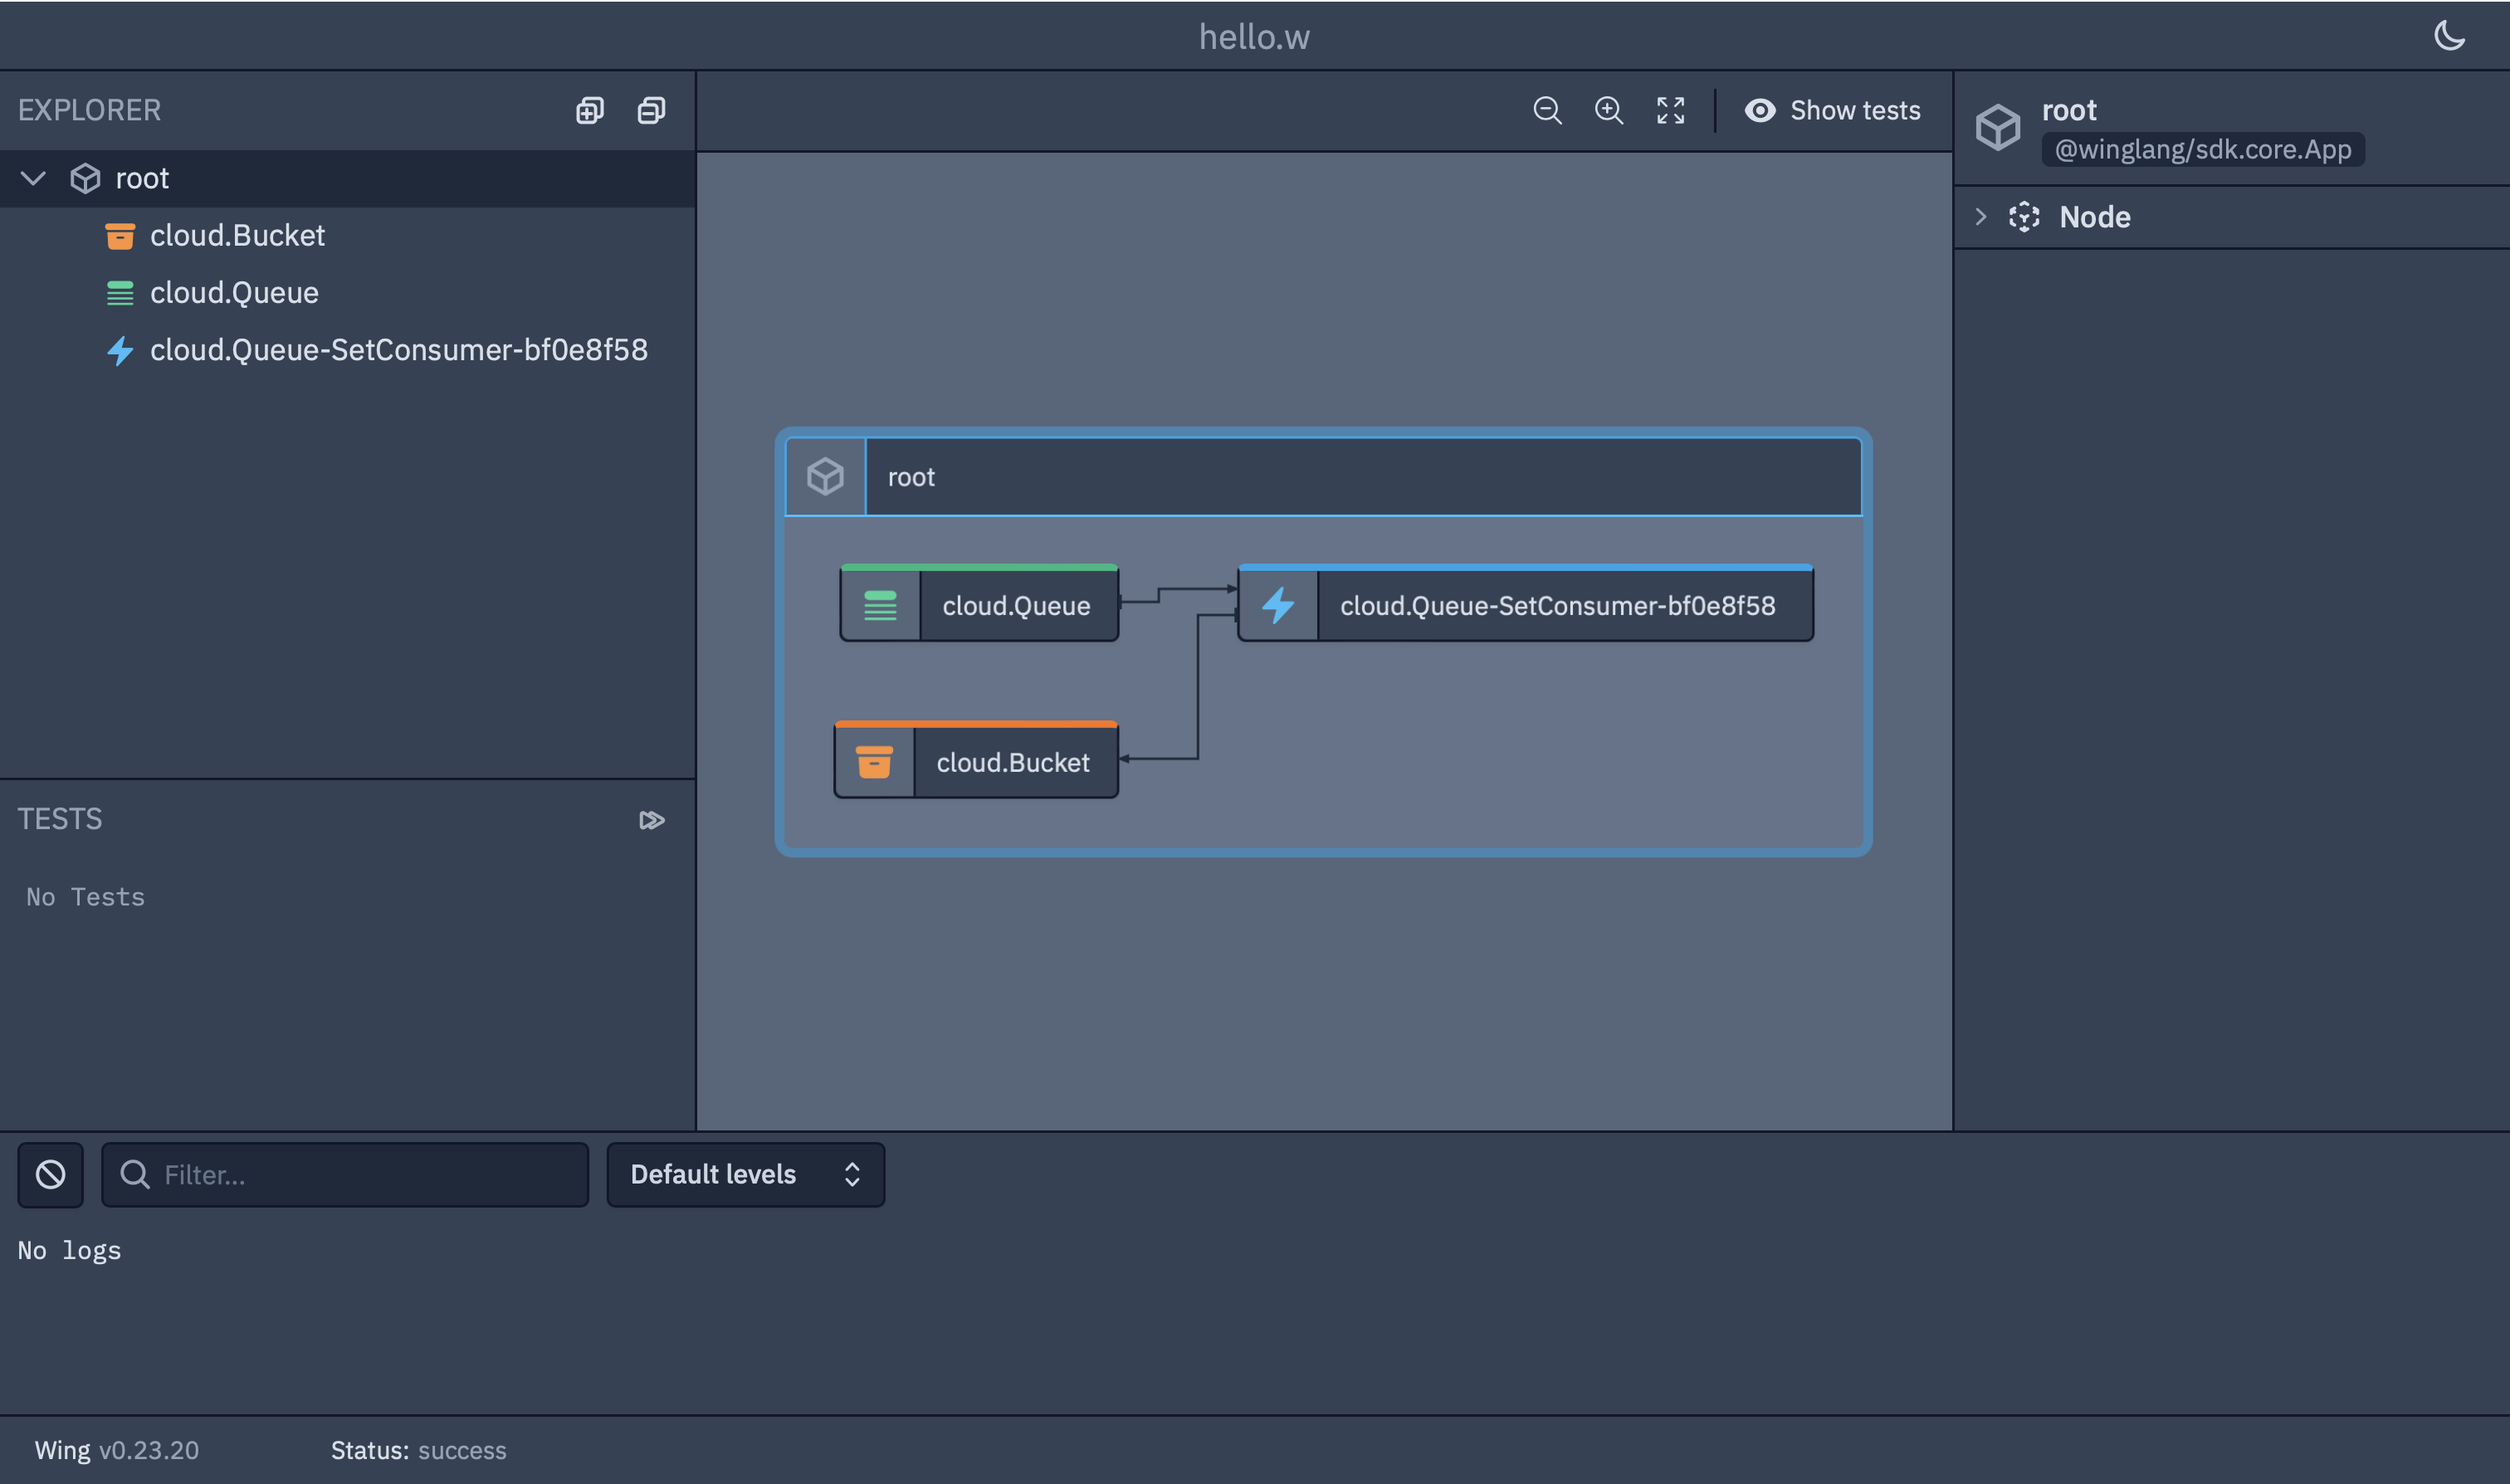
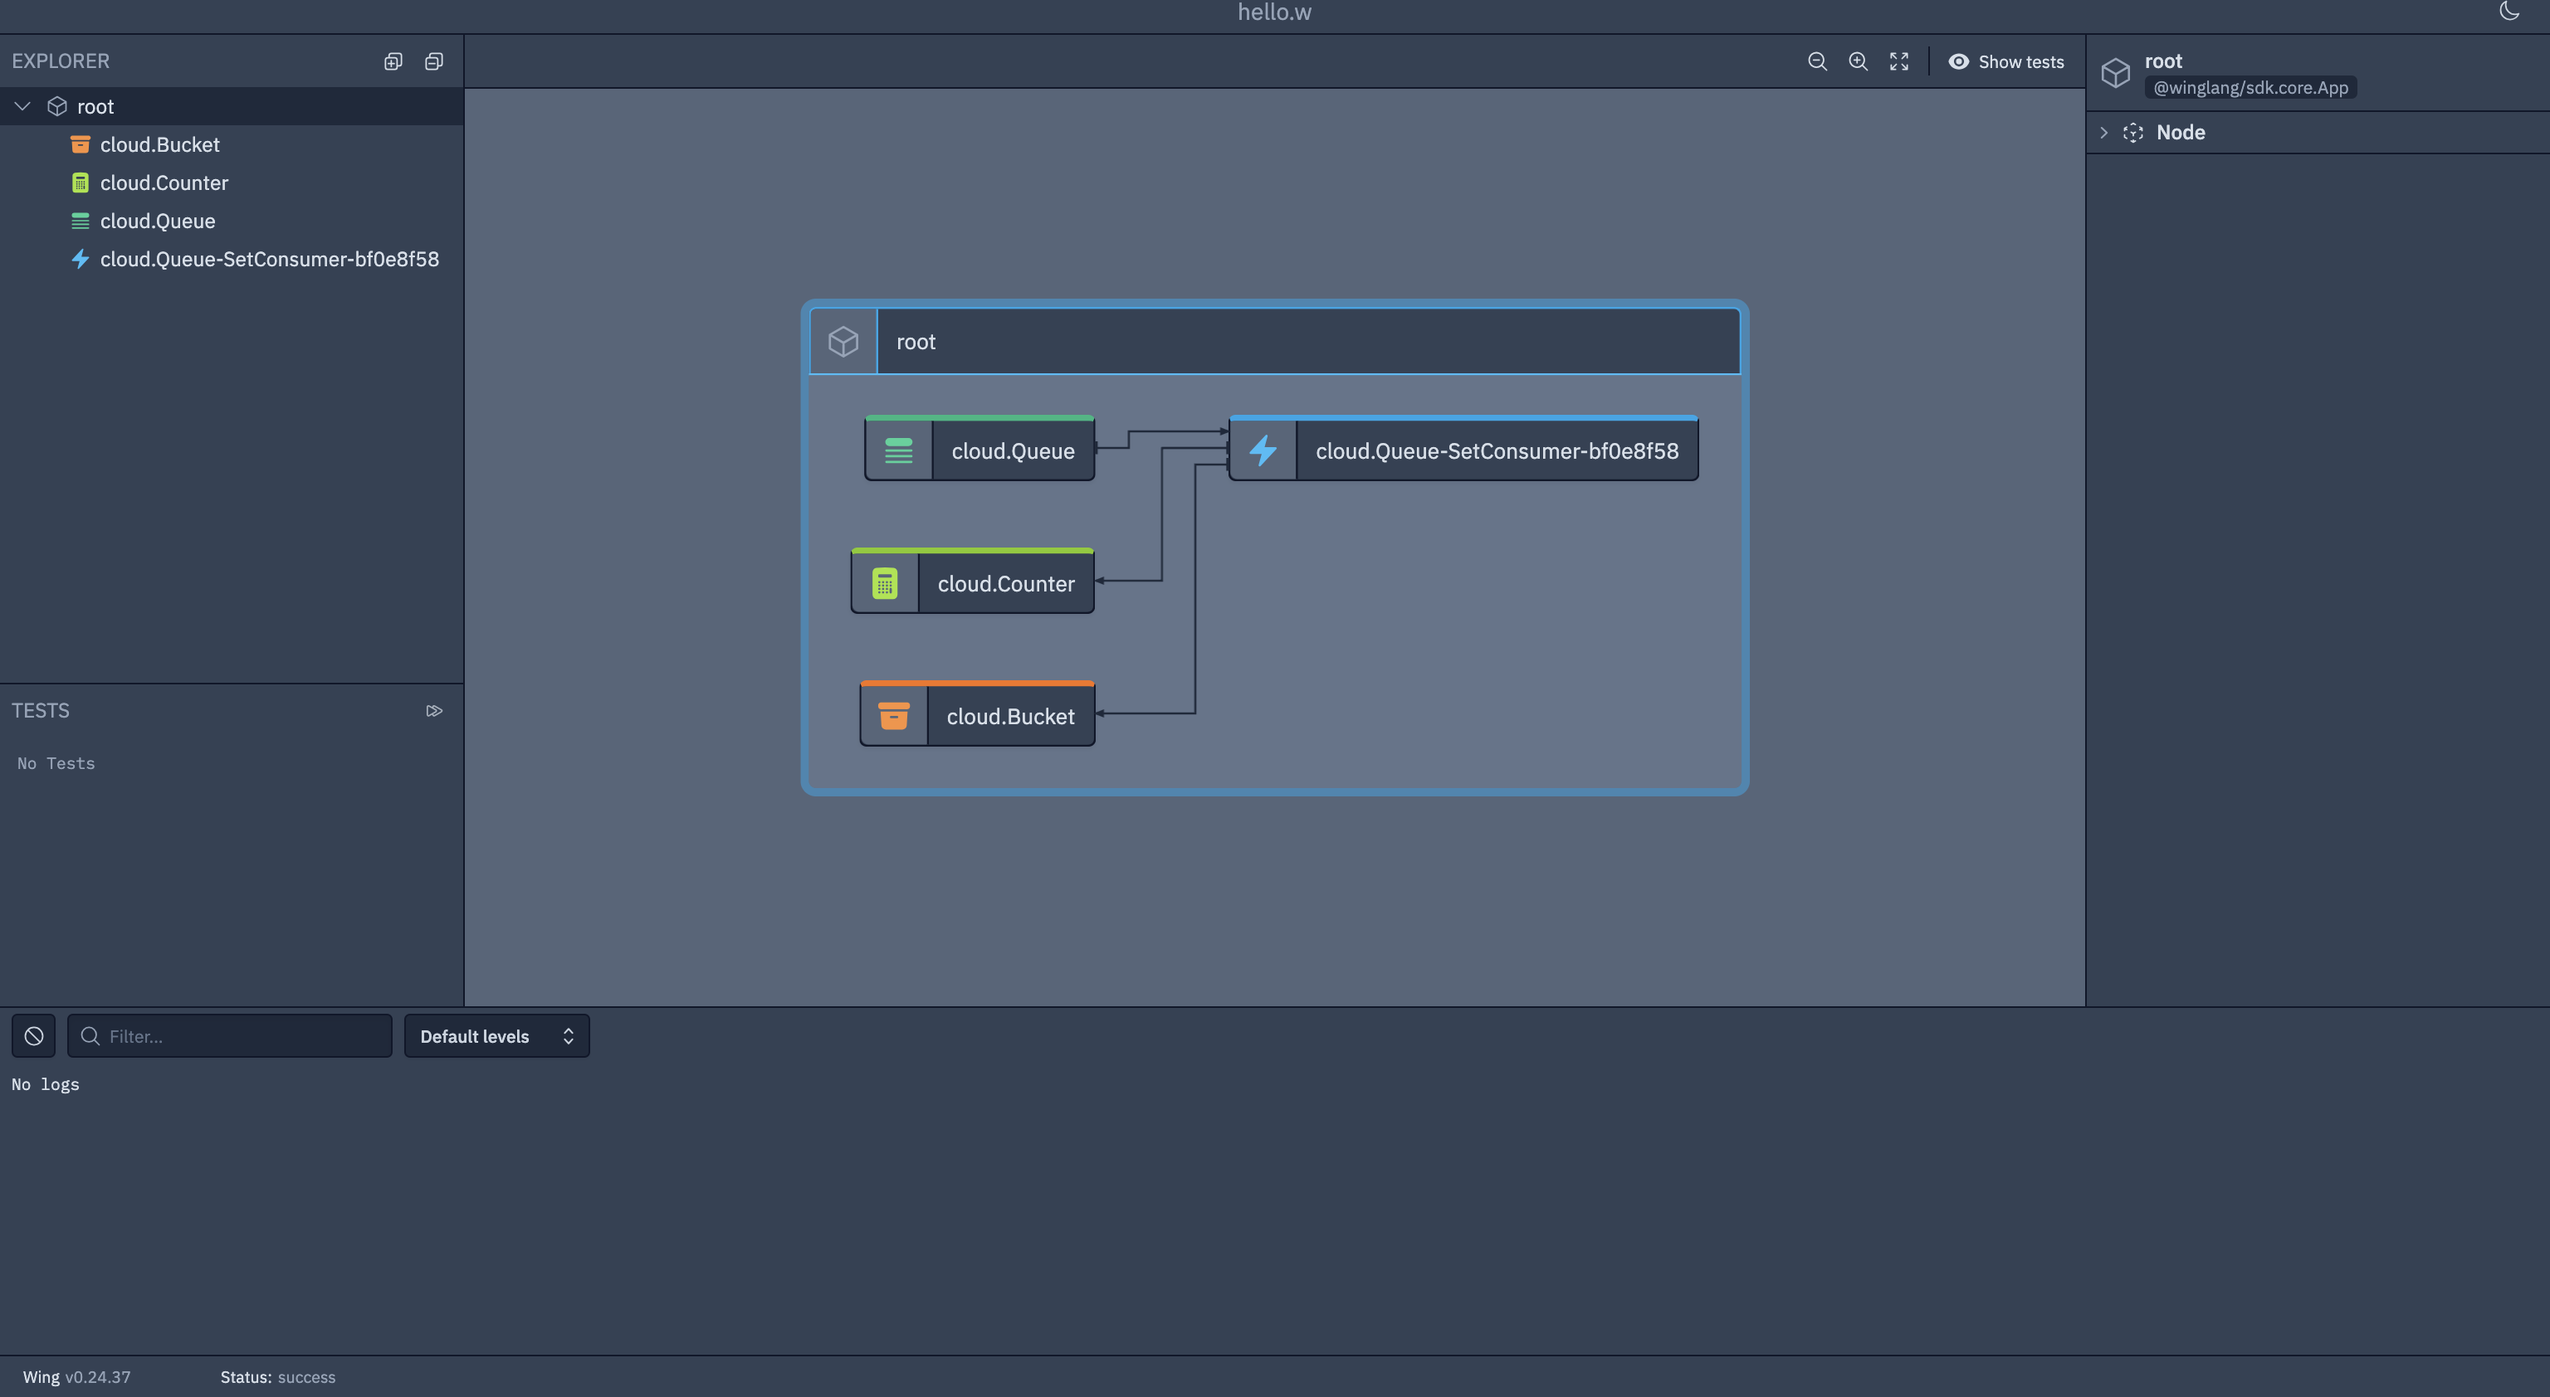
fix(docs): enhancing the getting-started app on the docs (backport #3551) (#3553)

diff --git a/docs/docs/01-start-here/05-aws.md b/docs/docs/01-start-here/05-aws.md
@@ -90,6 +90,9 @@ plan. Resource actions are indicated with the following symbols:
 
 Terraform will perform the following actions:
 
+  # aws_dynamodb_table.cloudCounter will be created
+  + resource "aws_dynamodb_table" "cloudCounter" {...}
+
   # aws_iam_role.cloudQueue-SetConsumer-cdafee6e_IamRole_2548D828 will be created
   + resource "aws_iam_role" "cloudQueue-SetConsumer-cdafee6e_IamRole_2548D828" {...}
 
@@ -123,7 +126,7 @@ Terraform will perform the following actions:
   # aws_sqs_queue.cloudQueue will be created
   + resource "aws_sqs_queue" "cloudQueue" {...}
 
-Plan: 11 to add, 0 to change, 0 to destroy.
+Plan: 12 to add, 0 to change, 0 to destroy.
 ```
 
 > This is a good opportunity to observe how much complexity the Wing compiler
@@ -134,7 +137,7 @@ If you choose to proceed, Terraform will do its magic and will create all of the
 account.
 
 ```  
-Apply complete! Resources: 11 added, 0 changed, 0 destroyed.
+Apply complete! Resources: 12 added, 0 changed, 0 destroyed.
 ```
 
 ## Explore your app on AWS
@@ -149,15 +152,15 @@ through the AWS Management Console.
 5. In the **Message Body** box type `cloud` and hit **Send message**.
 6. Jump over to the [S3 Console](https://s3.console.aws.amazon.com/s3/buckets) 
 7. There should be some buckets prefixed with `cloud-bucket-`. 
-8. Cycle through the buckets until you find one that contains `wing.txt`.
-9. Click `wing.txt` then click the `Open` button.
+8. Cycle through the buckets until you find one that contains `wing-1.txt`.
+9. Click `wing-1.txt` then click the `Open` button.
 10. The file should contain `Hello, cloud`.
 
 ## Cleanup
 
 Terraform doesn't allow destroying a non-empty bucket by default. To prepare for
 easy cleanup, you may delete the newly created file by marking the checkbox next
-to `wing.txt`, clicking the `Delete` button, typing `permanently delete` in the
+to `wing-1.txt`, clicking the `Delete` button, typing `permanently delete` in the
 confirmation box and clicking the `Delete objects` button.
 
 Once you're done, you can destroy all of the resources that were created on your AWS account by running:

diff --git a/docs/docs/01-start-here/03-hello.md b/docs/docs/01-start-here/03-hello.md
@@ -24,15 +24,19 @@ entrypoint of your Wing application.
 bring cloud;
 
 let bucket = new cloud.Bucket();
+let counter = new cloud.Counter(
+  initial: 1
+);
 let queue = new cloud.Queue();
 
 queue.setConsumer(inflight (message: str) => {
-  bucket.put("wing.txt", "Hello, ${message}");
-  log("file created");
+  let index = counter.inc();
+  bucket.put("wing-${index}.txt", "Hello, ${message}");
+  log("file wing-${index}.txt created");
 });
 ```
 
-This code should be mostly self explanatory. We define a queue, and every time a
-message is added to the queue, a handler is triggered and creates a file named `wing.txt` with `"Hello, ${message}!"` content .
+This code should be mostly self explanatory. We define a queue and a counter, and every time a
+message is added to the queue, a handler is triggered and creates a file named `wing-<counter-index>.txt` with `"Hello, ${message}!"` content, and the counter is incremented by 1.
 
 Now that we've written this program, let's run and test it using the **Wing Console**.

diff --git a/docs/docs/01-start-here/04-run-locally.md b/docs/docs/01-start-here/04-run-locally.md
@@ -41,7 +41,7 @@ On the interaction panel, Type a message in the `Push Message` text area (let's 
 
 Now, click on the bucket in the map view. Notice that the interaction panel has changed and now shows the bucket's interaction view.
 
-When you click on the `wing.txt` file, you should be able to see its contents.
+When you click on the `wing-1.txt` file, you should be able to see its contents.
 
 ![Bucket resource view in Wing Console](./console-bucket-1.png 'Bucket resource')
 
